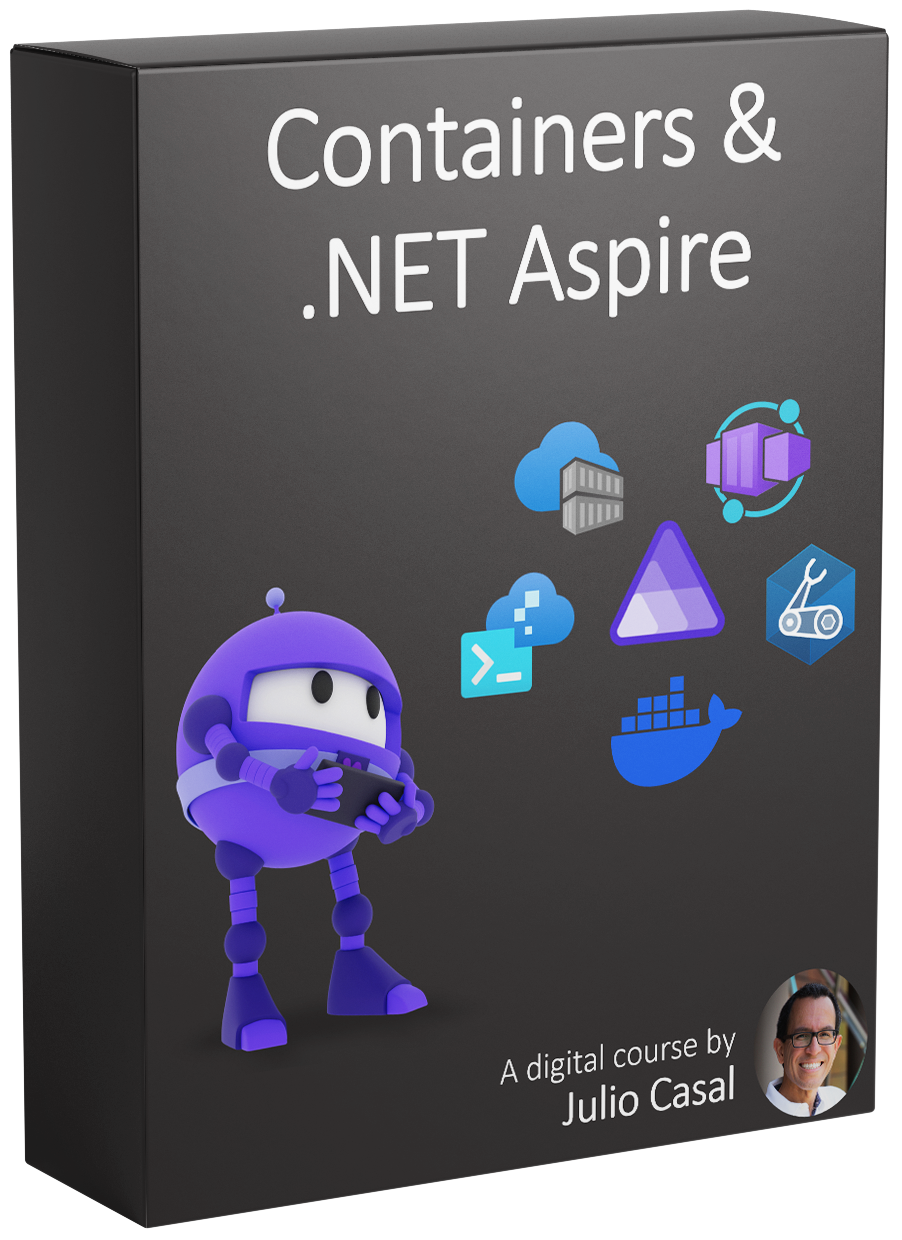
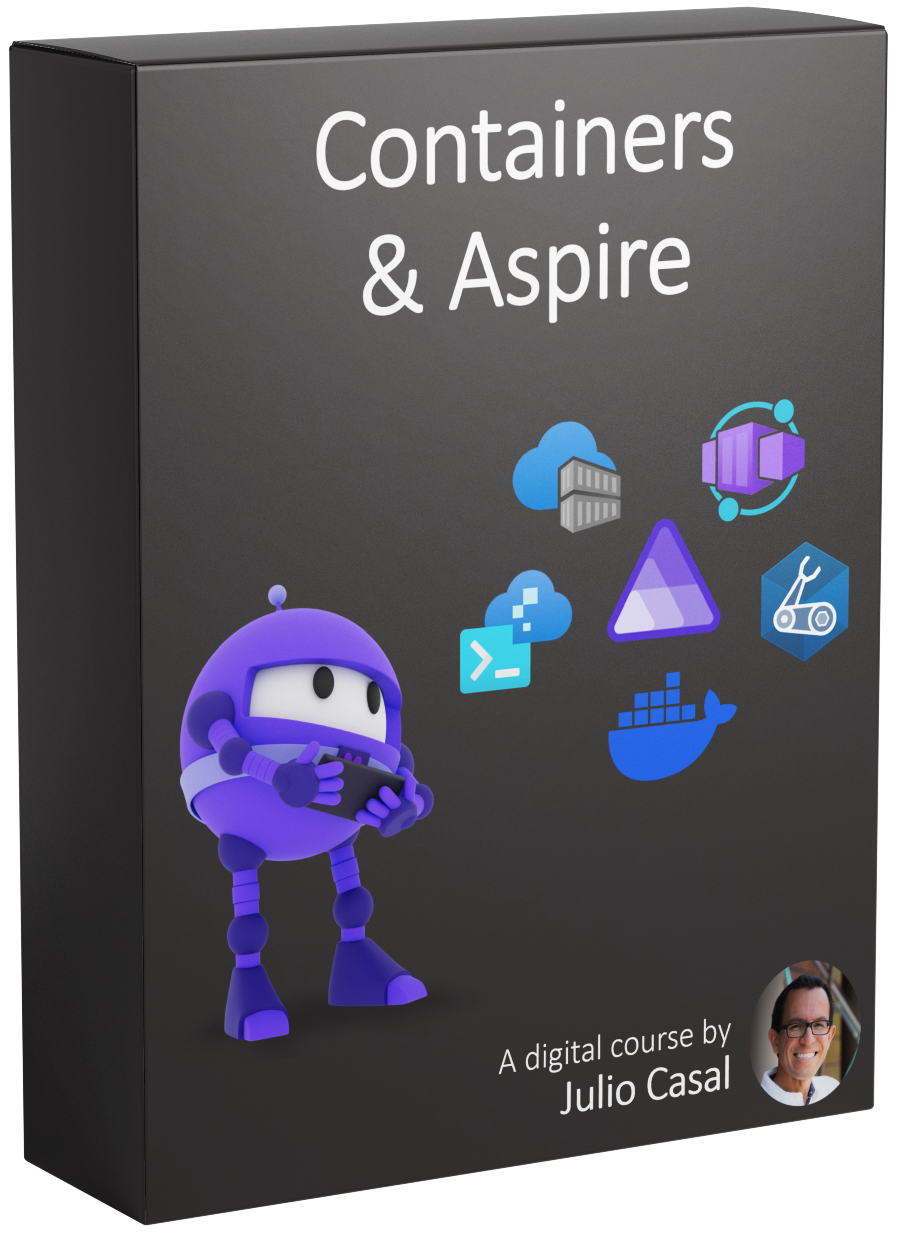
Rename Containers & Aspire course

diff --git a/courses/containers-and-dotnet-aspire.html b/courses/containers-and-dotnet-aspire.html
@@ -21,7 +21,7 @@
       "@context": "https://schema.org/",
       "@id": "https://juliocasal.com/courses/containers-and-dotnet-aspire",
       "@type": "Course",
-      "name": "Containers & .NET Aspire",
+      "name": "Containers & Aspire",
       "description": "Transform your development workflow with containers and .NET Aspire — build once, deploy anywhere, and leave 'but it works on my machine' behind.",
       "provider": {
         "@type": "Organization",
@@ -75,7 +75,7 @@
     <!-- OG Meta Tags to improve the way the post looks when you share the page on Facebook, Twitter, LinkedIn -->
     <meta property="og:site_name" content="Julio Casal" /> <!-- website name -->
     <meta property="og:site" content="https://juliocasal.com" /> <!-- website link -->
-    <meta property="og:title" content="Containers & .NET Aspire Online Course" />
+    <meta property="og:title" content="Containers & Aspire Online Course" />
     <!-- title shown in the actual shared post -->
     <meta property="og:description"
         content="Transform your development workflow with containers and .NET Aspire — build once, deploy anywhere, and leave 'but it works on my machine' behind." />
@@ -92,7 +92,7 @@
         content="https://juliocasal.com/images/courses/containers-and-dotnet-aspire/Course_Thumbnail.jpg" />
 
     <!-- Webpage Title -->
-    <title>Containers & .NET Aspire Online Course</title>
+    <title>Containers & Aspire Online Course</title>
 
     <!-- Styles -->
     <link href="https://fonts.googleapis.com/css2?family=Open+Sans:ital,wght@0,400;0,600;0,700;1,400&display=swap"
@@ -1153,7 +1153,7 @@
                 <div class="col-lg-4">
                     <div class="course-info-box">
                         <img src="../images/courses/containers-and-dotnet-aspire/box-mockup.png"
-                            alt="Containers & .NET Aspire" class="img-fluid mb-3 course-box-image">
+                            alt="Containers & Aspire" class="img-fluid mb-3 course-box-image">
                         <h4>Course Includes</h4>
                         <ul class="course-info-list">
                             <li><i class="fas fa-bookmark"></i> <span>9 Modules, 61 Lessons</span></li>
@@ -1262,7 +1262,7 @@
                     <!-- Card-->
                     <div class="card best-value" style="box-shadow: 0 0 10px #eb8a2f;">
                         <div class="card-body">
-                            <div class="card-title best-value">CONTAINERS & .NET ASPIRE</div>
+                            <div class="card-title best-value">CONTAINERS & ASPIRE</div>
                             <div id="full-price" class="mb-4">
                                 <div>
                                     <span class="currency best-value">$</span><span class="value best-value">197</span>
@@ -1365,7 +1365,7 @@
                 <div class="col-lg-12 mb-2">
                     <div class="text-container">
                         <h4>When does the course start and finish?</h4>
-                        <p>Containers & .NET Aspire is a completely self-paced online course. You decide when
+                        <p>Containers & Aspire is a completely self-paced online course. You decide when
                             you start and when you finish.</p>
                         <h4>What version of .NET is used in this course?</h4>
                         <p>.NET 8.</p>

diff --git a/courses/index.html b/courses/index.html
@@ -298,7 +298,7 @@
                             class="card-img-top mt-2" alt="..." style="width: 60%; margin: 0 auto;">
                         <div class="card-body" style="display: flex; flex-direction: column;">
                             <a href="containers-and-dotnet-aspire" style="text-decoration: none;">
-                                <h5 class="course-title">Containers & .NET Aspire</h5>
+                                <h5 class="course-title">Containers & Aspire</h5>
                             </a>
                             <p class="card-text">Build production ready apps from day 1.</p>
                             <!-- <div
@@ -402,13 +402,13 @@
                             </a>
                             <p class="card-text" style="color: white;">Everything You Need To Upgrade Your .NET Skills
                             </p> -->
-                            <!-- <div
+    <!-- <div
                                 style="margin-top: auto; display: flex; align-items: center; justify-content: flex-end; gap: 12px;">
                                 <span
                                     style="text-decoration: line-through; color: white; font-size: 1.25rem;">$570</span>
                                 <span style="color: #eb8a2f; font-size: 1.5rem; font-weight: 700;">$342</span>
                             </div> -->
-                        <!-- </div>
+    <!-- </div>
                     </div>
                 </div>
             </div>

diff --git a/_posts/2023-08-12-Docker-Tutorial-For-Dotnet-Developers.md b/_posts/2023-08-12-Docker-Tutorial-For-Dotnet-Developers.md
@@ -253,7 +253,7 @@ Mission accomplished!
 <br/>
 
 ### **How to run my docker container in the cloud?**
-To run your containers in the cloud you can prepare a VM with Docker via your cloud provider or, if you don't want to have to prepare any production VM, and just run the containers, you can use services like Azure Kubernetes Service (AKS) or Azure Container Apps (ACA), which I cover in my **[Containers & .NET Aspire course]({{ site.url }}/courses/containers-and-dotnet-aspire)**.
+To run your containers in the cloud you can prepare a VM with Docker via your cloud provider or, if you don't want to have to prepare any production VM, and just run the containers, you can use services like Azure Kubernetes Service (AKS) or Azure Container Apps (ACA), which I cover in my **[Containers & Aspire course]({{ site.url }}/courses/containers-and-dotnet-aspire)**.
 
 And that's it for today. I hope you enjoyed it.
 

diff --git a/_posts/2025-08-16-going-full-stack-with-dotnet-aspire.md b/_posts/2025-08-16-going-full-stack-with-dotnet-aspire.md
@@ -208,7 +208,7 @@ With .NET Aspire, your React frontend and .NET backend work together as a unifie
 
 When your development environment setup becomes invisible, your team can focus on what actually matters: building features that customers love.
 
-**P.S.** If you want to see this approach scaled up to a real-world e-commerce system—complete with Keycloak and Entra ID authentication, and production Azure deployment—check out my [Containers & .NET Aspire course](https://juliocasal.com/courses/containers-and-dotnet-aspire).
+**P.S.** If you want to see this approach scaled up to a real-world e-commerce system—complete with Keycloak and Entra ID authentication, and production Azure deployment—check out my [Containers & Aspire course](https://juliocasal.com/courses/containers-and-dotnet-aspire).
 
 ---
 

diff --git a/_posts/2025-05-24-build-a-system-not-an-app.md b/_posts/2025-05-24-build-a-system-not-an-app.md
@@ -143,7 +143,7 @@ Yes, it can do that too:
 
 It's a live view of your entire system, exactly as you defined it in your C# code.
 
-It even includes the Keycloak dependency, which I cover in detail, plus how to convert the entire thing into Bicep files to get everything deployed to Azure with one command, in the upcoming **Containers & .NET Aspire course** that will soon join [the bootcamp]({{ site.url }}/courses/dotnetbootcamp).
+It even includes the Keycloak dependency, which I cover in detail, plus how to convert the entire thing into Bicep files to get everything deployed to Azure with one command, in the upcoming **Containers & Aspire course** that will soon join [the bootcamp]({{ site.url }}/courses/dotnetbootcamp).
 
 
 

diff --git a/_posts/2025-05-31-infrastructure-as-code-in-csharp-with-aspire.md b/_posts/2025-05-31-infrastructure-as-code-in-csharp-with-aspire.md
@@ -176,7 +176,7 @@ Yes, there's also a hosting integration for that.
 
 And what if you need to customize the Storage Account configuration, or modify a few of the Container Apps settings?
 
-That's also possible, and I'll cover all those in detail, plus how to even use your existing Bicep files with Aspire, in the upcoming **Containers & .NET Aspire course** that will join [the bootcamp]({{ site.url }}/courses/dotnetbootcamp) soon.
+That's also possible, and I'll cover all those in detail, plus how to even use your existing Bicep files with Aspire, in the upcoming **Containers & Aspire course** that will join [the bootcamp]({{ site.url }}/courses/dotnetbootcamp) soon.
 
 ---
 

diff --git a/_posts/2025-07-26-keycloak-tutorial-part-2-clone-and-f5-ready-with-net-aspire.md b/_posts/2025-07-26-keycloak-tutorial-part-2-clone-and-f5-ready-with-net-aspire.md
@@ -355,7 +355,7 @@ And that's all for today.
 
 See you next Saturday.
 
-**P.S.** If you're ready to take this containerized, production-ready approach beyond just Keycloak, my [**Containers & .NET Aspire course**]({{ site.url }}/courses/containers-and-dotnet-aspire) shows you how to build bulletproof .NET applications from day 1.
+**P.S.** If you're ready to take this containerized, production-ready approach beyond just Keycloak, my [**Containers & Aspire course**]({{ site.url }}/courses/containers-and-dotnet-aspire) shows you how to build bulletproof .NET applications from day 1.
 
 ---
 

diff --git a/_posts/2025-08-23-deploying-keycloak-to-azure-with-net-aspire.md b/_posts/2025-08-23-deploying-keycloak-to-azure-with-net-aspire.md
@@ -374,7 +374,7 @@ And that’s all for today.
 
 See you next Saturday.
 
-**P.S.** If you want to go deeper into fine-tuned Azure deployments with .NET Aspire, and secure a complete e-commerce system with Keycloak, it's all covered in my [**Containers & .NET Aspire course**]({{ site.url }}/courses/containers-and-dotnet-aspire).
+**P.S.** If you want to go deeper into fine-tuned Azure deployments with .NET Aspire, and secure a complete e-commerce system with Keycloak, it's all covered in my [**Containers & Aspire course**]({{ site.url }}/courses/containers-and-dotnet-aspire).
 
 
 ---
